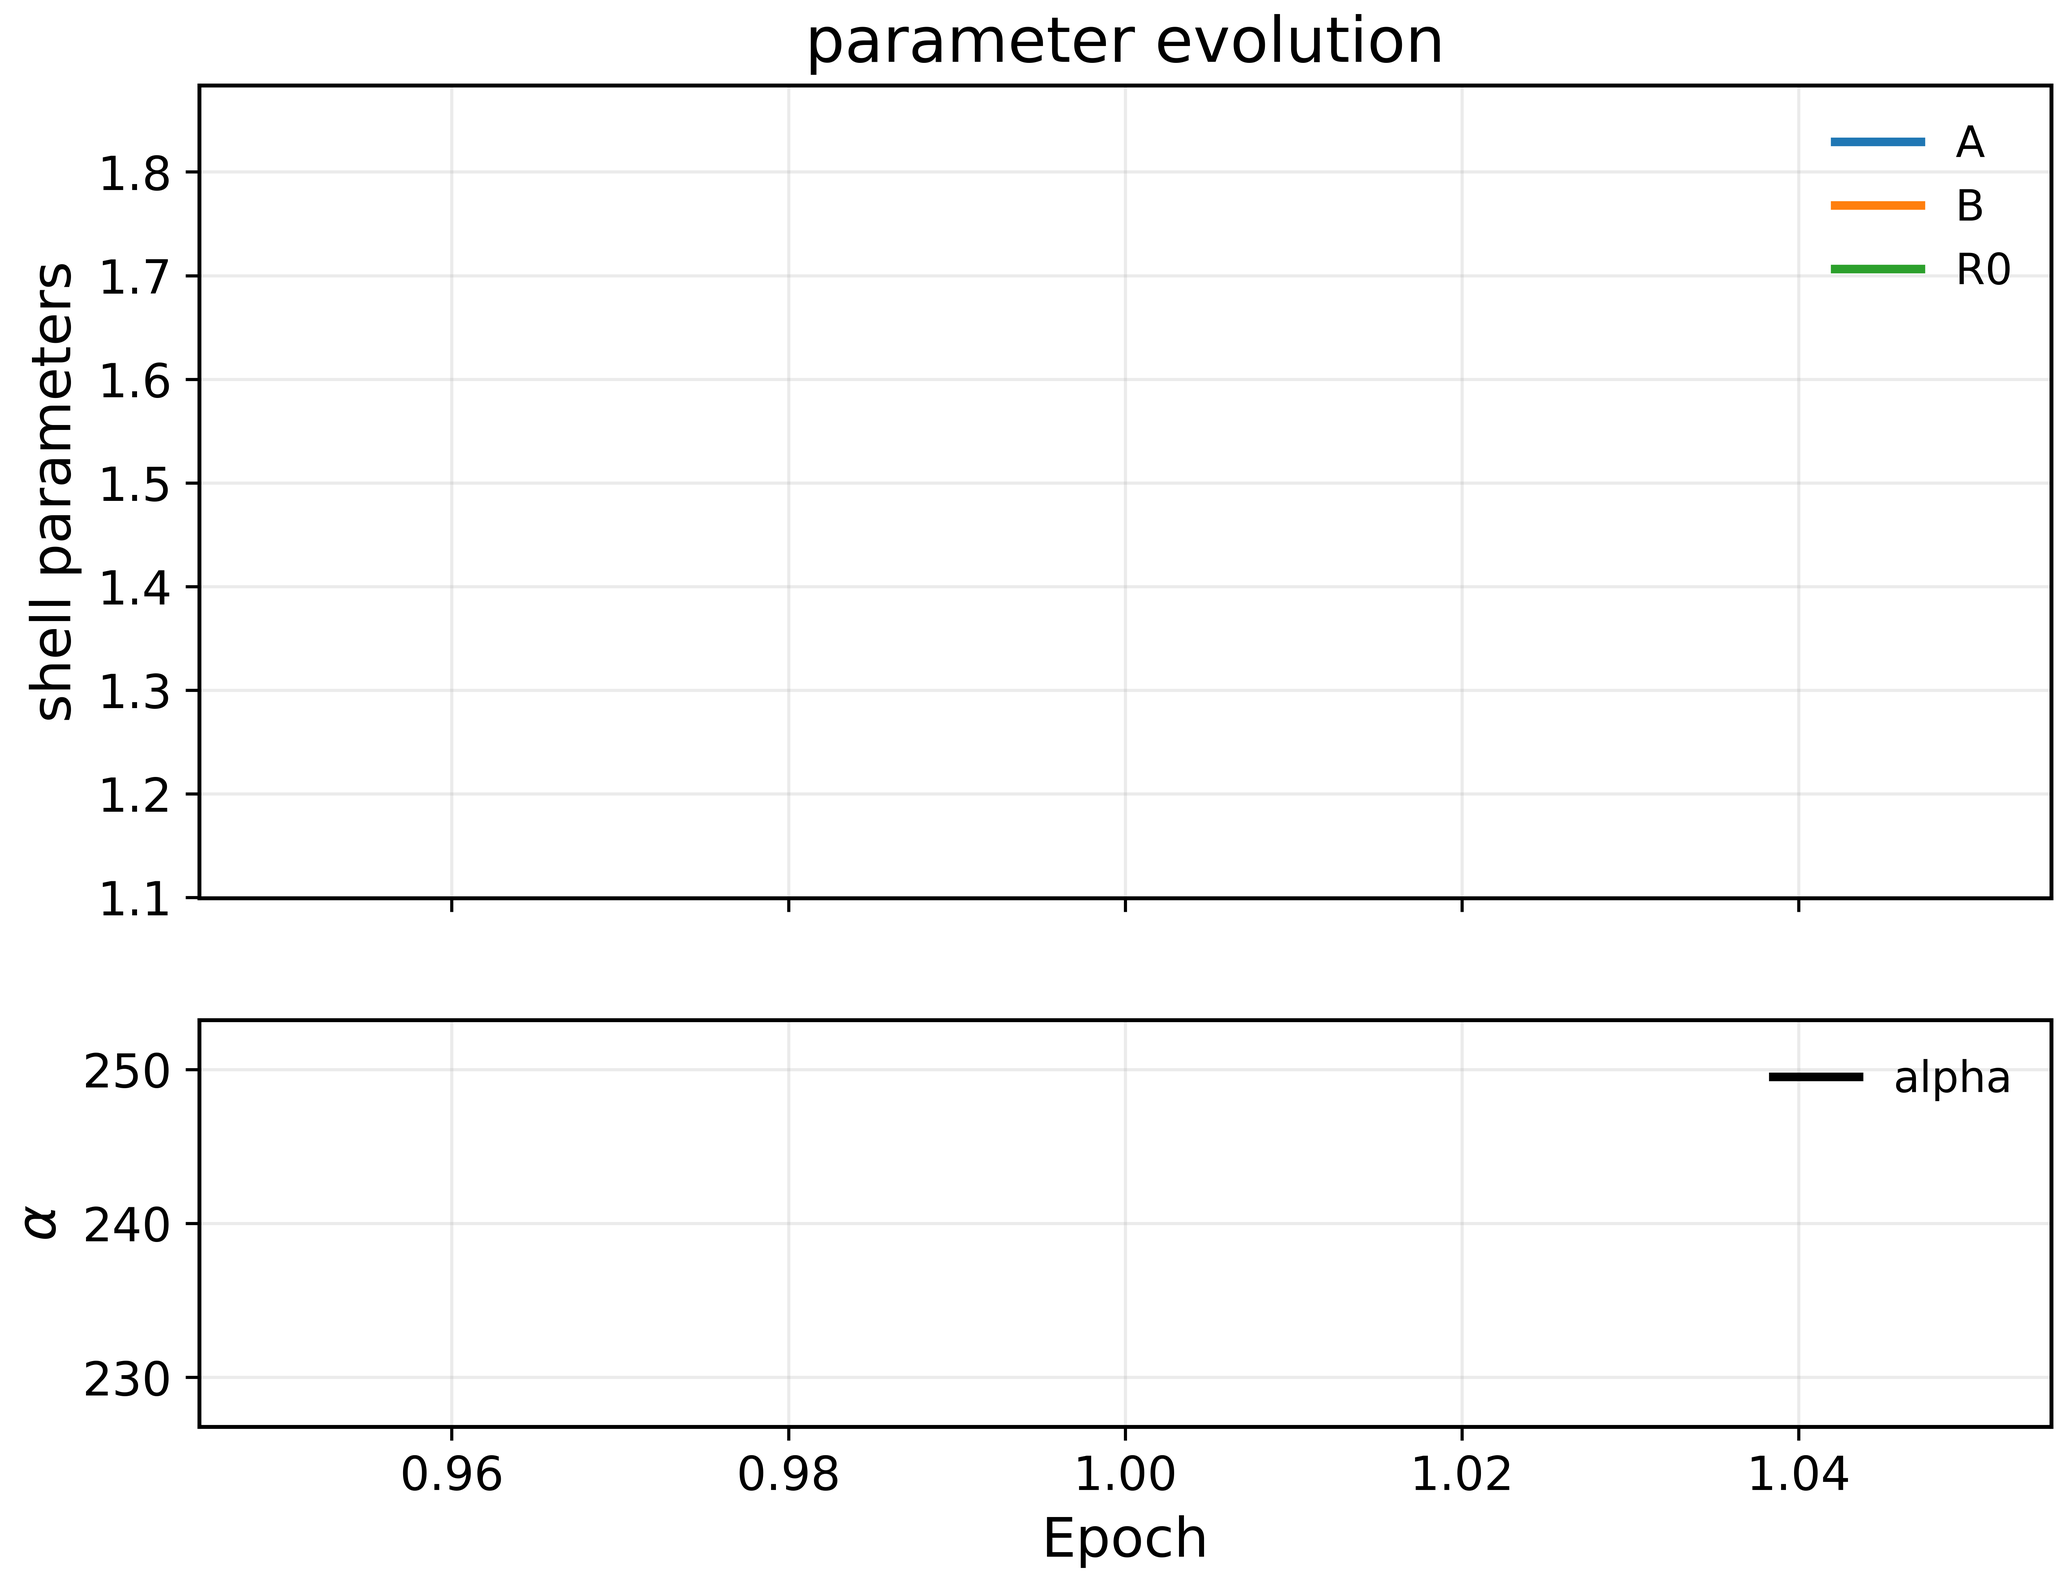
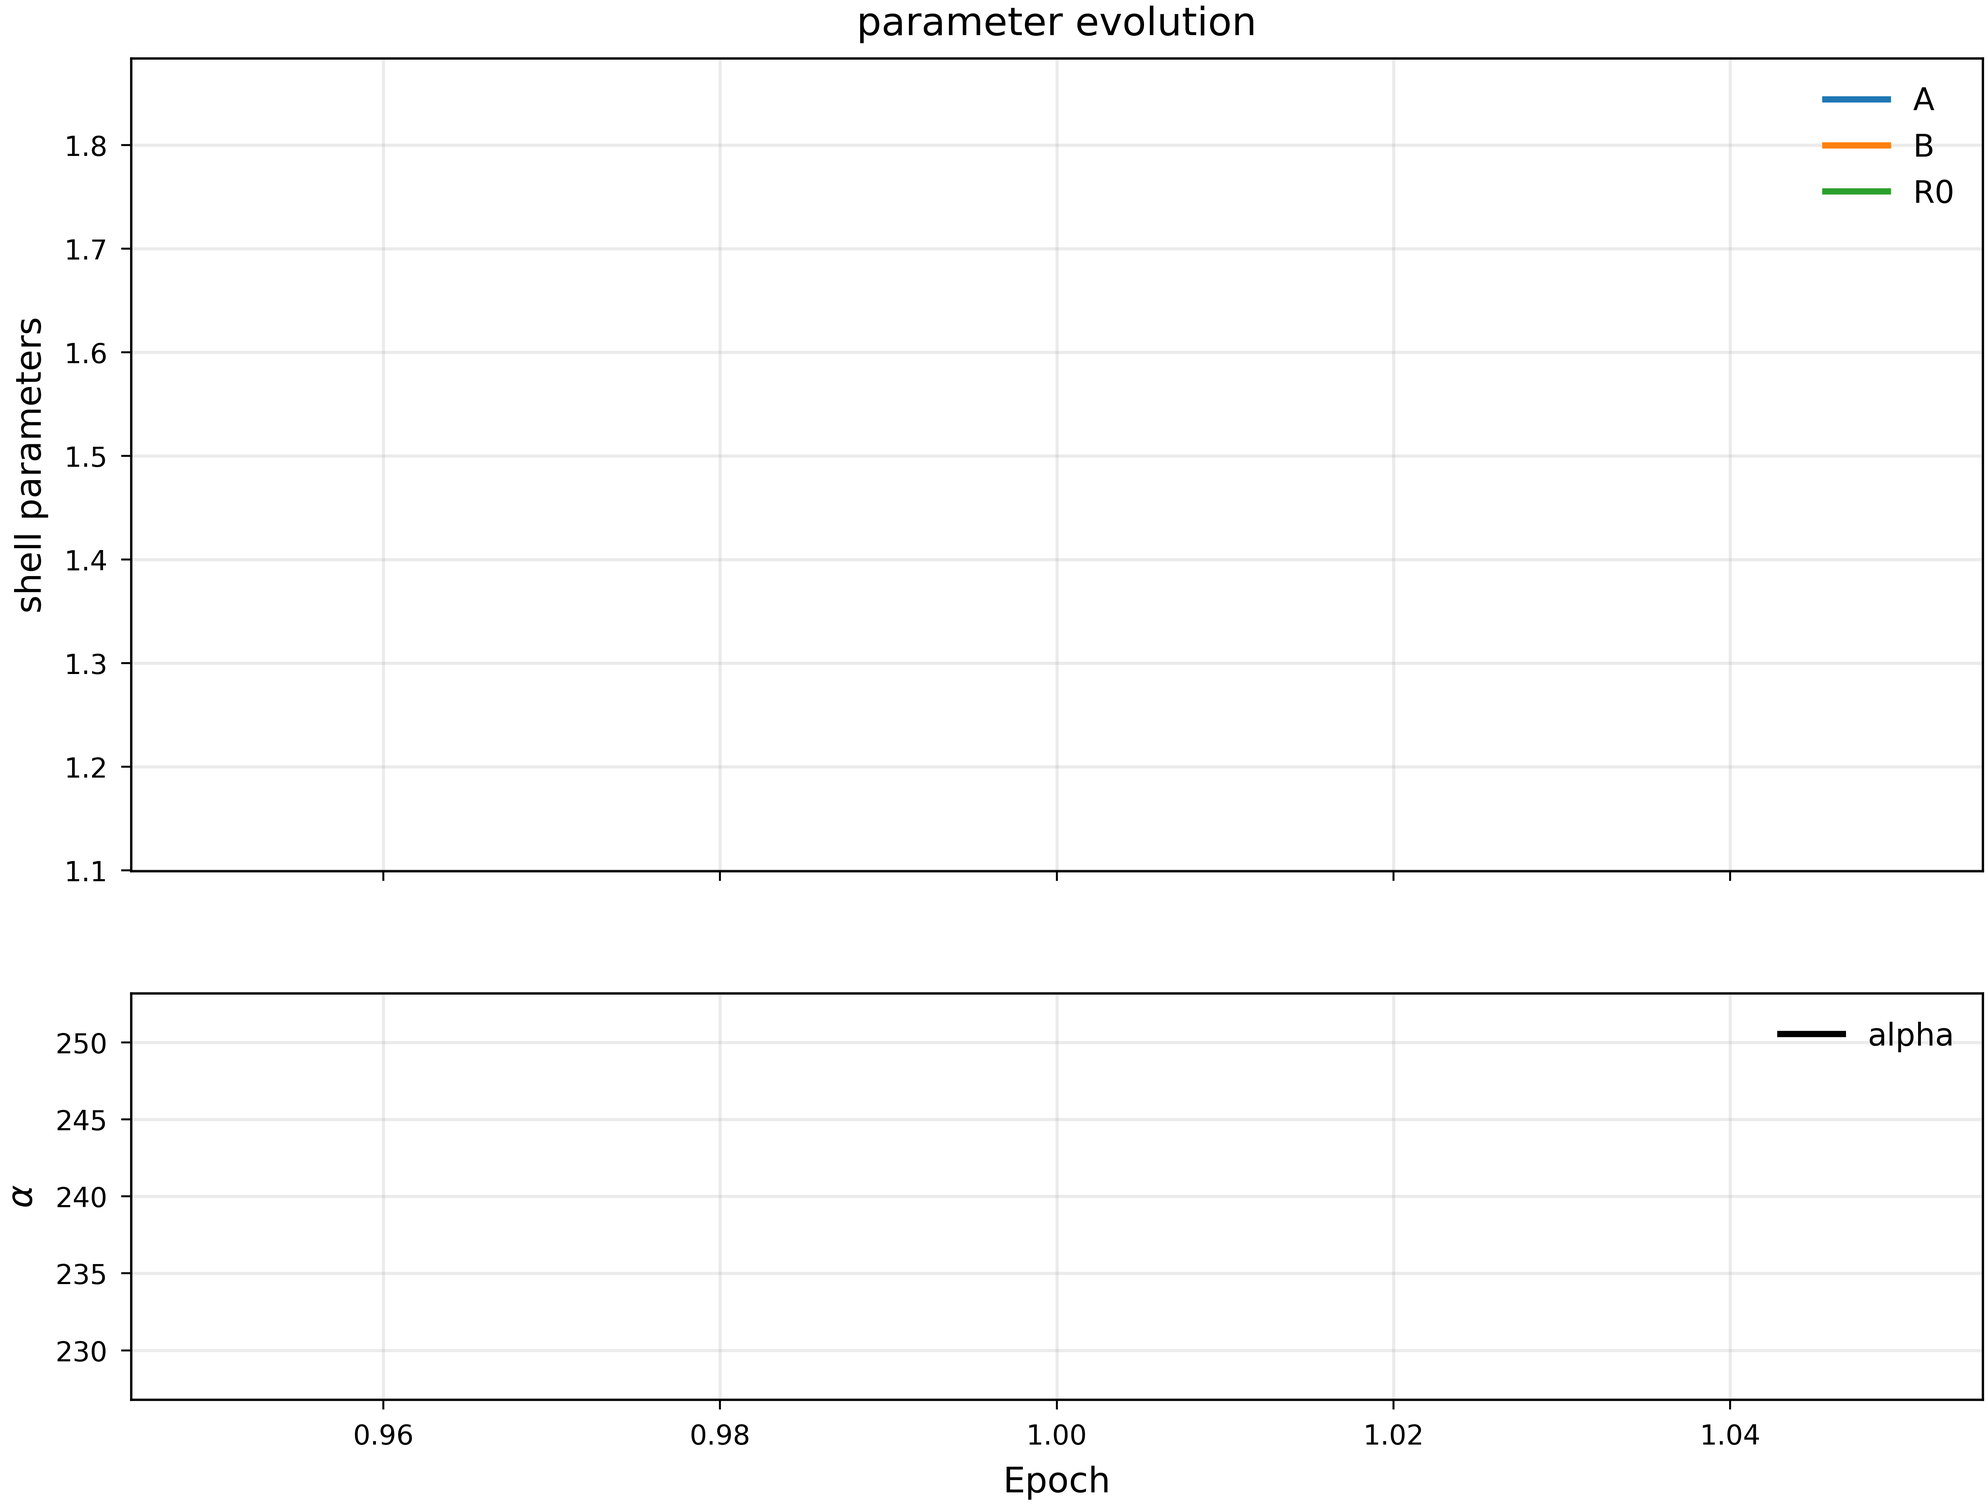
Polish manuscript figures for submission

diff --git a/postprocess_plots.py b/postprocess_plots.py
@@ -48,26 +48,51 @@ SOFT_MARGIN_COLUMNS = (
     "dec_margin_soft",
     "sec_margin_soft",
 )
+DISPLAY_STYLES = ("default", "old-paper")
+
+# ``default`` is the audit-facing renderer: it shows the rebuilt diagnostic maps
+# with minimal display processing. ``old-paper`` is a manuscript-facing preset
+# that applies display-only smoothing, near-zero whitening, and despeckling to
+# better match the cleaner Mathematica-style figures from the original draft.
 
 
-def configure_style():
-    plt.rcParams.update(
-        {
-            "figure.dpi": 300,
-            "savefig.dpi": 300,
-            "font.size": 14,
-            "axes.titlesize": 16,
-            "axes.labelsize": 14,
-            "xtick.labelsize": 12,
-            "ytick.labelsize": 12,
-            "legend.fontsize": 11,
-            "axes.grid": False,
-            "axes.linewidth": 1.0,
-            "lines.linewidth": 2.2,
-            "savefig.bbox": "tight",
-            "savefig.pad_inches": 0.05,
-        }
-    )
+def configure_style(display_style="default"):
+    base = {
+        "figure.dpi": 300,
+        "savefig.dpi": 300,
+        "font.size": 14,
+        "axes.titlesize": 16,
+        "axes.labelsize": 14,
+        "xtick.labelsize": 12,
+        "ytick.labelsize": 12,
+        "legend.fontsize": 11,
+        "axes.grid": False,
+        "axes.linewidth": 1.0,
+        "lines.linewidth": 2.2,
+        "savefig.bbox": "tight",
+        "savefig.pad_inches": 0.05,
+    }
+    if display_style == "old-paper":
+        # This preset keeps the regenerated figures visually closer to the
+        # earlier manuscript PDF without changing the underlying data.
+        base.update(
+            {
+                "font.size": 11,
+                "axes.titlesize": 10,
+                "axes.labelsize": 9,
+                "xtick.labelsize": 7,
+                "ytick.labelsize": 7,
+                "legend.fontsize": 8,
+                "axes.linewidth": 0.6,
+                "lines.linewidth": 1.6,
+                "xtick.major.width": 0.5,
+                "ytick.major.width": 0.5,
+                "xtick.major.size": 2.5,
+                "ytick.major.size": 2.5,
+                "savefig.pad_inches": 0.02,
+            }
+        )
+    plt.rcParams.update(base)
 
 
 def _read_numeric_table(path):
@@ -521,8 +546,133 @@ def _symmetric_norm(data, percentile=99.5):
     return TwoSlopeNorm(vmin=-vmax, vcenter=0.0, vmax=vmax)
 
 
+def _soft_diverging_cmap():
+    # Mathematica used a hand-built five-stop diverging palette instead of a
+    # stock "bwr" map. Matching those anchor colors helps the Python figures
+    # inherit the softer manuscript look from the original notebooks.
+    colors = [
+        (0.0, 0.0, 0.7),   # dark blue
+        (0.7, 0.7, 1.0),   # light blue
+        (1.0, 1.0, 1.0),   # white
+        (1.0, 0.7, 0.7),   # light red
+        (0.7, 0.0, 0.0),   # dark red
+    ]
+    cmap = matplotlib.colors.LinearSegmentedColormap.from_list("soft_bwr", colors)
+    cmap.set_bad(color="white")
+    return cmap
+
+
+def _smooth_masked_field(data, passes=2):
+    """Apply a small display-only blur while preserving NaN masks."""
+    arr = np.asarray(data, dtype=float)
+    mask = np.isfinite(arr)
+    if not np.any(mask):
+        return arr
+
+    smoothed = arr.copy()
+    weights = np.array(
+        [
+            [1.0, 2.0, 1.0],
+            [2.0, 4.0, 2.0],
+            [1.0, 2.0, 1.0],
+        ],
+        dtype=float,
+    )
+    for _ in range(max(int(passes), 0)):
+        value_sum = np.zeros_like(smoothed, dtype=float)
+        weight_sum = np.zeros_like(smoothed, dtype=float)
+        for i in range(3):
+            for j in range(3):
+                shifted_values = np.roll(np.roll(np.nan_to_num(smoothed, nan=0.0), i - 1, axis=0), j - 1, axis=1)
+                shifted_mask = np.roll(np.roll(mask.astype(float), i - 1, axis=0), j - 1, axis=1)
+                value_sum += weights[i, j] * shifted_values
+                weight_sum += weights[i, j] * shifted_mask
+        with np.errstate(invalid="ignore", divide="ignore"):
+            smoothed = np.where(weight_sum > 0.0, value_sum / weight_sum, np.nan)
+        smoothed = np.where(mask, smoothed, np.nan)
+    return smoothed
+
+
+def _style_map_data(data, field_name, display_style):
+    """Return a display-only styled map for the requested rendering preset.
+
+    The underlying diagnostics stay unchanged. ``default`` returns the rebuilt
+    field directly, while ``old-paper`` applies purely visual processing that
+    mirrors the presentation choices used in the Mathematica notebooks: a soft
+    zero-centered deadband and mild local smoothing. The processing is kept
+    deliberately conservative so the manuscript figures remain readable without
+    washing the signed margins out to white.
+    """
+    styled = np.asarray(data, dtype=float)
+    if display_style != "old-paper":
+        return styled
+
+    passes = 1 if field_name == "rho" else 3
+    styled = _smooth_masked_field(styled, passes=passes)
+    finite = styled[np.isfinite(styled)]
+    if finite.size == 0:
+        return styled
+
+    clip = float(np.nanpercentile(np.abs(finite), 99.0))
+    if clip <= 0.0:
+        return styled
+
+    if field_name == "rho":
+        return styled
+
+    if field_name in {"WEC_min", "NEC_min", "DEC_margin"}:
+        styled = np.where(styled > 0.0, 0.0, styled)
+
+    deadband_factors = {
+        "WEC_min": 0.45,
+        "NEC_min": 0.45,
+        # DEC needs a lighter display deadband than WEC/NEC. The stronger
+        # whitening that works for the signed observer margins was erasing too
+        # much of the shell-wide negative ring in the manuscript XY panel.
+        "DEC_margin": 0.08,
+        "SEC": 0.28,
+    }
+    threshold = deadband_factors.get(field_name, 0.25) * clip
+    if threshold > 0.0:
+        styled = np.where(np.abs(styled) < threshold, 0.0, styled)
+
+    post_passes = 2 if field_name in {"WEC_min", "NEC_min"} else 1
+    styled = _smooth_masked_field(styled, passes=post_passes)
+    if threshold > 0.0:
+        styled = np.where(np.abs(styled) < 0.5 * threshold, 0.0, styled)
+    return styled
+
+
+
+def _map_percentile(field_name, display_style):
+    """Choose a robust display percentile tuned per manuscript rendering mode."""
+    if display_style != "old-paper":
+        return 99.5
+    if field_name == "SEC":
+        return 96.5
+    if field_name == "DEC_margin":
+        return 97.5
+    return 98.0
+
+
+def _old_paper_title(field_name, title):
+    plane = ""
+    if "(" in title and title.endswith(")"):
+        plane = title.split("(")[-1][:-1].strip().lower().replace("xy", "x-y").replace("xz", "x-z")
+    plane_suffix = f" ({plane})" if plane else ""
+    labels = {
+        "rho": "Energy density: rho",
+        "WEC_min": "WEC min",
+        "NEC_min": "NEC min",
+        "DEC_margin": "DEC margin",
+        "SEC": "SEC",
+    }
+    return f"{labels.get(field_name, title)}{plane_suffix}"
+
+
 def plot_map(
     data,
+    field_name,
     axis_x,
     axis_y,
     xlabel,
@@ -535,25 +685,39 @@ def plot_map(
     interpolation="nearest",
     xlim=None,
     ylim=None,
+    display_style="default",
 ):
     fig, ax = plt.subplots(figsize=figsize, dpi=dpi)
-    cmap = plt.get_cmap("bwr").copy()
+    map_data = _style_map_data(data, field_name=field_name, display_style=display_style)
+    cmap = _soft_diverging_cmap() if display_style == "old-paper" else plt.get_cmap("bwr").copy()
     cmap.set_bad(color="white")
     ax.set_facecolor("white")
 
     image = ax.imshow(
-        np.ma.masked_invalid(data).T,
+        np.ma.masked_invalid(map_data).T,
         origin="lower",
         extent=(axis_x[0], axis_x[-1], axis_y[0], axis_y[-1]),
         cmap=cmap,
-        norm=_symmetric_norm(data),
+        norm=_symmetric_norm(map_data, percentile=_map_percentile(field_name, display_style)),
         interpolation=interpolation,
         aspect="equal",
     )
 
-    ax.set_xlabel(xlabel)
-    ax.set_ylabel(ylabel)
-    ax.set_title(title)
+    ax.set_xlabel(xlabel.lower())
+    ax.set_ylabel(ylabel.lower())
+    ax.set_title(
+        _old_paper_title(field_name, title) if display_style == "old-paper" else title,
+        pad=3.5 if display_style == "old-paper" else None,
+    )
+    if display_style == "old-paper":
+        for spine in ax.spines.values():
+            spine.set_linewidth(0.6)
+            spine.set_color("#c6c6c6")
+        ax.tick_params(colors="#7a7a7a", width=0.45, length=2.3, top=False, right=False)
+        ax.title.set_color("#5e5e5e")
+        ax.title.set_fontsize(8.5)
+        ax.xaxis.label.set_color("#6b6b6b")
+        ax.yaxis.label.set_color("#6b6b6b")
     if xlim is not None:
         ax.set_xlim(xlim)
     if ylim is not None:
@@ -765,9 +929,15 @@ def main():
         default="nearest",
         help="Image interpolation used when rendering field maps. This affects display only, not the underlying diagnostics.",
     )
+    parser.add_argument(
+        "--display-style",
+        choices=DISPLAY_STYLES,
+        default="default",
+        help="Visual preset for field maps. `default` is the raw audit-facing renderer; `old-paper` applies display-only smoothing/deadband/despeckling for manuscript readability.",
+    )
     args = parser.parse_args()
 
-    configure_style()
+    configure_style(display_style=args.display_style)
 
     run = load_run(args.base)
     planes = _parse_planes(args.planes)
@@ -792,6 +962,7 @@ def main():
             output_path = outdir / f"{field_base_name}_{plane}_{spec['filename']}.png"
             plot_map(
                 data=plane_map["fields"][field_name],
+                field_name=field_name,
                 axis_x=plane_map["axis_x"],
                 axis_y=plane_map["axis_y"],
                 xlabel=plane_map["xlabel"],
@@ -804,6 +975,7 @@ def main():
                 interpolation=args.interpolation,
                 xlim=tuple(args.xlim) if args.xlim else None,
                 ylim=tuple(args.ylim) if args.ylim else None,
+                display_style=args.display_style,
             )
 
     plot_losses(
@@ -828,6 +1000,8 @@ def main():
 
 if __name__ == "__main__":
     main()
+
+
 
 
 

diff --git a/submission_package_v0p1p0/warpdrive_clean_submission_zenodo_v0p1p0.tex b/submission_package_v0p1p0/warpdrive_clean_submission_zenodo_v0p1p0.tex
@@ -356,6 +356,8 @@ The pass/fail threshold $10^{-9}$ is used only as a floating-point tolerance in 
 
 The optimization is implemented in TensorFlow~2.x and executed in a Jupyter environment on commodity cloud hardware. For each shell geometry and each fixed $(v_*,t)$ we run an independent optimization that exports (i) the initial seed parameters, (ii) the full epoch-by-epoch loss history, (iii) the epoch-by-epoch parameter history, and (iv) the final sampled diagnostics used in the figures. The cleaned optimization, diagnostics, plotting, and verification workflow used in this study is publicly archived at Zenodo, DOI: \url{https://doi.org/10.5281/zenodo.19040071}. The archive includes the source code, the regenerated single-shell and double-shell golden bundles used for the manuscript-level claims, and direct evaluations of the manuscript target parameters under the same diagnostics. These materials are sufficient to reproduce the reported bundle summaries and field-map figures.
 
+For readability, the heat maps shown in Figs.~\ref{fig:d1-xy-energy-A}--\ref{fig:d2-xz-energy-B} use a display-only manuscript rendering preset that applies mild zero-centered whitening and local smoothing. For the signed margin maps (WEC, NEC, DEC, SEC), we also show a tighter plotting window around the shell so that the localized residual structure remains visible at journal page scale. This post-processing is used only for visualization. All reported success fractions, principal-stress margins, and optimization diagnostics are computed from the unsmoothed fields exported by the pipeline and are not recalculated from the display-processed images.
+
 \paragraph{Scope of the numerics.}
 The numerical results reported here are slice-based and grid-based. They do not constitute a proof of global regularity, a proof of energy-condition satisfaction for arbitrary observers, or a proof that the same hierarchy persists outside the sampled parameter ranges. Their role is narrower: to demonstrate that within the zero-vorticity, constant-translation class, selectively warped positive-energy seeds can be optimized so that the residual deficits are stress-dominated and sharply localized.
 

diff --git a/warpdrive_clean_submission_zenodo_v0p1p0.tex b/warpdrive_clean_submission_zenodo_v0p1p0.tex
@@ -356,6 +356,8 @@ The pass/fail threshold $10^{-9}$ is used only as a floating-point tolerance in 
 
 The optimization is implemented in TensorFlow~2.x and executed in a Jupyter environment on commodity cloud hardware. For each shell geometry and each fixed $(v_*,t)$ we run an independent optimization that exports (i) the initial seed parameters, (ii) the full epoch-by-epoch loss history, (iii) the epoch-by-epoch parameter history, and (iv) the final sampled diagnostics used in the figures. The cleaned optimization, diagnostics, plotting, and verification workflow used in this study is publicly archived at Zenodo, DOI: \url{https://doi.org/10.5281/zenodo.19040071}. The archive includes the source code, the regenerated single-shell and double-shell golden bundles used for the manuscript-level claims, and direct evaluations of the manuscript target parameters under the same diagnostics. These materials are sufficient to reproduce the reported bundle summaries and field-map figures.
 
+For readability, the heat maps shown in Figs.~\ref{fig:d1-xy-energy-A}--\ref{fig:d2-xz-energy-B} use a display-only manuscript rendering preset that applies mild zero-centered whitening, local smoothing, and isolated-pixel suppression. This post-processing is used only for visualization, to mimic the cleaner Mathematica-style presentation of the earlier draft. All reported success fractions, principal-stress margins, and optimization diagnostics are computed from the unsmoothed fields exported by the pipeline and are not recalculated from the display-processed images.
+
 \paragraph{Scope of the numerics.}
 The numerical results reported here are slice-based and grid-based. They do not constitute a proof of global regularity, a proof of energy-condition satisfaction for arbitrary observers, or a proof that the same hierarchy persists outside the sampled parameter ranges. Their role is narrower: to demonstrate that within the zero-vorticity, constant-translation class, selectively warped positive-energy seeds can be optimized so that the residual deficits are stress-dominated and sharply localized.
 

diff --git a/README.md b/README.md
@@ -295,6 +295,15 @@ All field-map filenames use the revised manuscript language:
 - `DECmargin` (filename) / `DEC_margin` (diagnostic label)
 - `SEC`
 
+### Display Styles for Field Maps
+
+`postprocess_plots.py` provides two rendering modes for the same rebuilt fields:
+
+- `--display-style default`: audit-facing output with minimal display processing. Use this when checking the raw sign structure or comparing directly against exported diagnostics.
+- `--display-style old-paper`: manuscript-facing output with display-only smoothing, a zero-centered deadband, and isolated-pixel suppression to mimic the cleaner Mathematica `DensityPlot` appearance from the earlier draft.
+
+This distinction is intentional. All quantitative claims in the manuscript should be read from the unsmoothed diagnostics (`success_rates.csv`, `losses.csv`, `final_params.csv`, and raw rebuilt fields). The `old-paper` preset exists only to improve figure readability and does not feed back into the optimization or into any reported percentages/margins.
+
 ## Reproducibility Notes
 
 ### Origin of the Code
